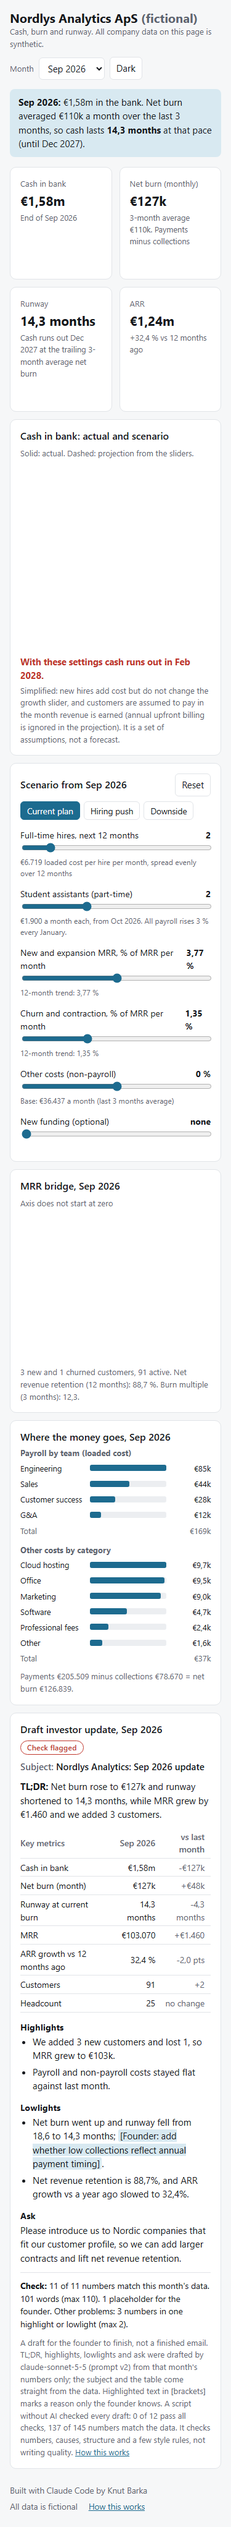
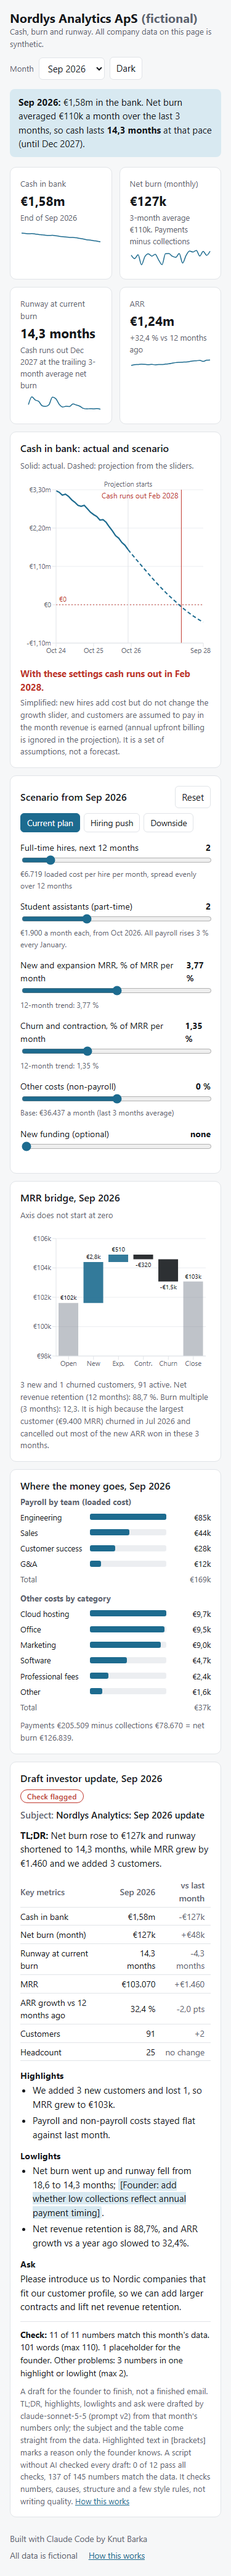
Review 6: explain guide with three new questions, full pipeline run, screenshots retaken

diff --git a/web/app/method/page.tsx b/web/app/method/page.tsx
@@ -58,9 +58,15 @@ export default function Method() {
       <p>
         The dashed line starts from {monthLabel(base.start_month)} with {eur(base.start_cash)} in the bank and projects
         24 months. Each month: MRR grows by the growth rate and shrinks by the churn rate; cash changes by MRR minus
-        payroll minus other costs plus any funding. Defaults are recent trends: growth {pct(base.default_growth_rate, 2)} and
-        churn {pct(base.default_churn_rate, 2)} of MRR per month (12-month averages), other costs {eur(base.monthly_opex)} a
-        month (3-month average), payroll {eur(base.monthly_payroll)} a month, and no new hires. A new hire costs{" "}
+        payroll minus other costs plus any funding. Payroll starts at {eur(base.monthly_payroll)} a month and rises{" "}
+        {pct(base.annual_salary_increase, 0)} every January (own assumption, for everyone including new hires). The page
+        opens on the Current plan preset: growth {pct(base.default_growth_rate, 2)} and churn{" "}
+        {pct(base.default_churn_rate, 2)} of MRR per month (12-month averages), other costs {eur(base.monthly_opex)} a
+        month (3-month average), 2 full-time hires and 2 student assistants. Hiring push has 6 full-time hires; Downside
+        has half the growth and 1,5 times the churn. A student assistant (part-time, about 15 hours a week) costs{" "}
+        {eur(base.student_assistant_cost)} a month including holiday pay and starts in the first projected month. New
+        hires add cost but do not change the growth rate, and customers are assumed to pay in the month revenue is
+        earned. A full-time hire costs{" "}
         {eur(base.cost_per_hire)} a month: the average loaded cost per team, weighted by an assumed hiring mix of 40 %
         engineering, 35 % sales, 15 % customer success and 10 % G&amp;A. This is a tool for asking &quot;what if&quot;, not a
         forecast. A test checks that the browser calculation equals an independent Python version to within €1 a month.
@@ -150,9 +156,9 @@ export default function Method() {
       <ul>
         <li>All data is synthetic, so the patterns are only as realistic as the assumptions behind them.</li>
         <li>Revenue equals MRR. No proration, VAT, tax, payables or receivables timing.</li>
-        <li>The projection keeps costs flat apart from the sliders and treats collections as equal to revenue.</li>
+        <li>The projection keeps other costs flat apart from the slider, treats collections as equal to revenue (annual upfront billing is ignored) and does not let new hires change the growth rate.</li>
         <li>Gross margin counts cloud hosting and customer success payroll as cost of revenue. Third-party software stays in operating costs because the data does not say which part serves customers.</li>
-        <li>The AI check verifies numbers and named causes only. A draft can pass and still be badly written or emphasise the wrong thing.</li>
+        <li>The AI check verifies numbers, named causes, structure and a few style rules. A draft could pass and still be badly written or emphasise the wrong thing, and every draft needs a founder to fill in the placeholders.</li>
       </ul>
     </main>
   );

diff --git a/scripts/check_updates.py b/scripts/check_updates.py
@@ -148,7 +148,7 @@ def structure_and_style(u, worse):
     banned = sorted({m.group(0).lower() for m in BANNED_RE.finditer(ai_text)})
     if banned:
         problems.append("banned words: " + ", ".join(banned))
-    if "—" in ai_text or "–" in ai_text:   # em dash or en dash
+    if "\u2014" in ai_text or "\u2013" in ai_text:   # em dash or en dash
         problems.append("dash")
     outside = PLACEHOLDER.sub("", ai_text)
     if "[" in outside or "]" in outside or LOOSE_PLACEHOLDER.search(outside):

diff --git a/docs/explain.md b/docs/explain.md
@@ -4,7 +4,7 @@ This is your guide to the project. Read it once from top to bottom. Everything i
 
 ## The one-paragraph version
 
-A Python script invents 24 months of data for a fictional SaaS company. DuckDB turns that data into metrics with SQL. The metrics are exported to one JSON file. A Next.js website shows that file as a dashboard. Sliders on the website project cash forward. Claude wrote one investor update per month from that month's numbers, and a separate script without AI checks the numbers in those updates.
+A Python script invents 24 months of data for a fictional SaaS company. DuckDB turns that data into metrics with SQL. The metrics are exported to one JSON file. A Next.js website shows that file as a dashboard. Sliders and three preset buttons on the website project cash forward. For each month there is a draft investor update: the subject and a key metrics table come straight from the data, and Claude drafted the short text parts (TL;DR, highlights, lowlights, ask) for a founder to finish. A separate script without AI checks those text parts.
 
 ```
 generate.py -> data/raw/*.csv -> reconcile.py (checks)
@@ -36,8 +36,8 @@ Where: `scripts/generate.py` (billing rules) and `scripts/reconcile.py` (the che
 - **Computed in:** `sql/03_monthly_summary.sql` (`net_burn`).
 - **Why cash and not profit:** a company dies when cash runs out, not when profit is negative. The card also shows the 3-month average.
 
-### Runway
-- **Shows:** how many months the cash lasts at today's pace, and the month it would run out.
+### Runway at current burn
+- **Shows:** how many months the cash lasts at today's pace, and the month it would run out. The label says "at current burn" because it assumes burn stays at the trailing 3-month average, unlike the scenario projection.
 - **Formula:** closing cash / average net burn of the last 3 months. Zero-cash month = this month + runway, rounded up.
 - **Computed in:** `sql/04_runway.sql`.
 - **Why 3 months:** one month is too noisy because of annual invoices. Twelve months would still be showing the cheaper period before the spring 2026 hiring push. Three is a middle ground and the dashboard says it is used.
@@ -48,16 +48,30 @@ Where: `scripts/generate.py` (billing rules) and `scripts/reconcile.py` (the che
 - **Computed in:** `sql/06_unit_metrics.sql`.
 - **Why:** the standard size measure for a subscription business. Year-on-year growth avoids monthly noise.
 
-The small lines under each KPI (sparklines) show the same number for every month up to the selected one.
+The small lines under each KPI (sparklines) show the same number for every month up to the selected one. Hovering over a line, or dragging a finger along it on a phone, shows the month and the exact value just above the line (for example "Jul 2026: €1.785.615", or "14,3 months" for runway). Where: `Sparkline` in `web/components/charts.tsx`.
+
+### Gross margin (used in the AI fact sheet and the docs, not a KPI card)
+- **Formula:** (revenue - cost of revenue) / revenue. Cost of revenue = cloud hosting + payroll of the customer success team.
+- **Computed in:** `sql/03_monthly_summary.sql`.
+- **Value:** 63,4 % in Sep 2026. The first version counted hosting only and showed about 91 %, which flattered the business. See question 7.
 
 ## The charts
 
 ### Cash curve (main chart)
-- **Shows:** actual cash for 24 months (solid line) and a 24-month projection (dashed line) that moves with the sliders. The red dashed line is €0. If cash falls below zero, a red label shows the month.
-- **Formula, each projected month:** MRR = last MRR x (1 + growth - churn). Payroll = today's payroll + hires started x cost per hire. Cash = last cash + MRR - payroll - other costs + funding.
-- **Computed in:** `web/lib/scenario.ts` (browser). Same logic in `scripts/check_scenario.py` (Python). Starting values from `sql/08_scenario_base.sql`.
+- **Shows:** actual cash for 24 months (solid line) and a 24-month projection (dashed line) that moves with the sliders. The red dashed line is €0. If cash falls below zero, a red vertical line marks the month.
+- **Line under the chart:** one sentence that reads the current projection: either "With these settings cash runs out in Mon YYYY" (in red) or "With these settings cash bottoms out at €X in Mon YYYY". Below it, one line on the two biggest simplifications: new hires add cost but do not change the growth slider, and customers are assumed to pay in the month revenue is earned (annual upfront billing is ignored in the projection).
+- **Formula, each projected month:**
+  - MRR = last MRR x (1 + growth - churn).
+  - Payroll = (today's payroll + full-time hires started x cost per hire + student assistants x €1.900) x salary factor. The salary factor is 1 until the first January, 1,03 in 2027 and 1,0609 in 2028: all payroll rises 3 % every January.
+  - Cash = last cash + MRR - payroll - other costs + funding.
+- **Sliders:** full-time hires (0 to 15, spread evenly over 12 months), student assistants (0 to 6, part-time, all start in the first projected month), growth, churn, other costs, new funding.
+- **Presets** (buttons above the sliders; clicking one sets the sliders, moving a slider afterwards is fine and clears the highlight):
+  - *Current plan* (on load; Reset returns here): 2 full-time hires, 2 student assistants, growth and churn at their 12-month trend, no change to other costs, no funding.
+  - *Hiring push*: as Current plan with 6 full-time hires.
+  - *Downside*: as Current plan with growth at half the trend and churn at 1,5 times the trend.
+- **Results from Sep 2026 (€1,58m in the bank):** Current plan runs out of cash in Feb 2028; Hiring push and Downside both run out in Nov 2027. The runway KPI (burn stays as it is) says Dec 2027.
+- **Computed in:** `web/lib/scenario.ts` (browser). Same logic in `scripts/check_scenario.py` (Python). Starting values, the student assistant cost and the 3 % raise come from `sql/08_scenario_base.sql`, so both versions read the same numbers.
 - **Why:** it answers "what if" questions live. It is labelled as assumptions, not a forecast.
-- **Note:** at default settings cash does not reach zero within 24 months (lowest point about €42k in Sep 2028), while the runway KPI says Dec 2027. Both are right: the KPI assumes burn stays as it is; the projection assumes MRR keeps growing at the recent trend. Be ready to explain that difference. It is a good talking point.
 
 ### MRR bridge (waterfall)
 - **Shows:** why MRR changed in the selected month: opening MRR, plus new, plus expansion, minus contraction, minus churn, equals closing MRR.
@@ -71,17 +85,24 @@ The small lines under each KPI (sparklines) show the same number for every month
 - **Why:** payroll is about 80 % of spending. This makes that obvious and shows which team drives it.
 
 ### Draft investor update
-- **Shows:** Claude's draft for the selected month (Oct 2025 to Sep 2026) and whether the number check passed.
-- **Computed in:** `scripts/write_updates.py` (draft) and `scripts/check_updates.py` (check).
+- **Shows:** a draft for the selected month (Oct 2025 to Sep 2026) in five parts, then the check result:
+  1. Subject: "Nordlys Analytics: Mon YYYY update". Not AI.
+  2. TL;DR: one sentence with the most important thing this month and what it means. AI.
+  3. Key metrics table: cash, net burn, runway at current burn, MRR, ARR growth, customers, headcount, each with the change vs last month. Not AI: from `sql/09_update_metrics.sql`.
+  4. Up to two highlights and two lowlights, one short sentence each. AI.
+  5. Ask: one concrete thing investors can help with. AI.
+- **Placeholders:** the data shows what happened, not why. Where a reason matters (why a customer left, what a fee was for, why someone was hired), the AI writes "[Founder: add reason]" instead of guessing. The dashboard highlights these. The drafts are for a founder to finish.
+- **Computed in:** `scripts/write_updates.py` (draft, prompt v2) and `scripts/check_updates.py` (check). Card: `web/components/UpdateCard.tsx`.
+- **History:** v1 was 120 to 180 words of prose. After reviewing two v1 drafts (Apr and Jul 2026) they were too dense (20 or more numbers in running text), had no ask, and wrote as the founder about causes the founder would know but the data does not. v1 is kept in `data/ai/updates_v1.csv`.
 
 ## Main design choices and why
 
 1. **All maths in SQL views, one per file.** One place the numbers come from. Anyone can open a `.sql` file and read the formula.
 2. **A static website.** No server and no database online. Cheap, fast and nothing to break. The trade-off: new data means rebuilding.
 3. **Sliders run in the browser in one small file.** The logic is readable top to bottom, and a test proves it matches an independent Python version to within €1 every month.
-4. **AI text generated once and stored.** Repeatable, cheap (about USD 0,07 for all 12 drafts) and reviewable. Visitors never trigger an API call.
-5. **The AI gets a prepared fact sheet, not raw data.** It can only use numbers we gave it, and a script can check them.
-6. **Honest check results.** 3 of 284 numbers were rounding errors by the model. They are shown, not hidden.
+4. **AI text generated once and stored.** Repeatable, cheap (about USD 0,07 for all 12 drafts, each time) and reviewable. Visitors never trigger an API call.
+5. **The AI gets a prepared fact sheet, not raw data.** It can only use numbers we gave it, and a script can check them. The numbers investors need most sit in a table built from SQL, so the AI text only has to carry the story.
+6. **Honest check results.** The v2 check was run once: 0 of 12 drafts pass every rule. The results are shown, not regenerated away.
 7. **Planted story.** The data has a hiring push, a big churn, a price increase, a strong expansion month and a one-off fee, so the dashboard and the updates have something to explain.
 
 ## Checks you can run
@@ -89,20 +110,22 @@ The small lines under each KPI (sparklines) show the same number for every month
 | Command | What it checks | Current result |
 |---|---|---|
 | `python scripts/reconcile.py` | Cash roll-forward, MRR movements against customer snapshots, payroll against headcount, opex, collections against billing | 8 of 8 pass |
-| `python scripts/check_scenario.py` then `cd web && npm test` | Python and TypeScript projections are equal within €1 | pass (2 cases) |
+| `python scripts/check_scenario.py` | Sanity checks on the projection (month 1 cash, hiring spread, 3 % raise every January, presets) | 8 of 8 pass |
+| `cd web && npm test` | Python and TypeScript projections are equal within €1, for each of the three presets and a stress case; preset buttons set the same values as Python | 5 of 5 pass |
 | `python scripts/write_updates.py` (first lines) | Look-ahead test: the input for each month uses no later data | pass |
-| `python scripts/check_updates.py` | Numbers and named causes in the AI drafts | 10 of 12 drafts pass, 281 of 284 numbers match |
+| `python scripts/check_updates.py` | Numbers, named causes, structure and style of the AI parts (v2) | 0 of 12 drafts pass, 137 of 145 numbers match |
+| `node scripts/screenshots.mjs` | A finger dragged along a sparkline at 375 px moves the tooltip; presets highlight and clear correctly | both pass |
 
-## 10 likely interview questions
+## 13 likely interview questions
 
 **1. Why trailing 3 months for burn?**
 Annual customers pay upfront, so one month's burn can be very high or even negative. Three months smooths that but still reacts fast. When we hired six people in spring 2026, the 3-month average showed it within one or two months. A 12-month average would still be showing last year's lower costs.
 
-**2. Why does the runway KPI say Dec 2027 but the chart says cash lasts beyond Sep 2028?**
-They answer different questions. The KPI says: if nothing changes, burn stays where it is. The chart assumes revenue keeps growing at the past year's pace. The truth is probably in between, and the sliders let you test how sensitive it is.
+**2. Why does the runway KPI say Dec 2027 but Current plan says Feb 2028?**
+They answer different questions. The KPI says: if nothing changes, burn stays at the trailing 3-month average. Current plan assumes revenue keeps growing at the past year's pace, and also adds 2 hires, 2 student assistants and a 3 % raise every January. Growth wins by about two months. Hiring push and Downside both run out in Nov 2027, one month before the KPI date. So the KPI is a reasonable middle, and the presets show the range.
 
 **3. How do you know the AI text is right?**
-I do not trust it by default. The model only gets a fact sheet built from the SQL views. Then a separate script, without AI, checks every number against that fact sheet and flags causes that the data does not support. 281 of 284 numbers matched. The three misses were rounding errors, and I left them visible. The check does not judge writing quality; I still read the drafts.
+I do not trust it by default. The model only gets a fact sheet built from the SQL views, and the key numbers sit in a table that does not come from the AI at all. Then a separate script, without AI, checks every number in the AI text against that fact sheet, flags causes the data does not support, and checks the format rules. In v2, 137 of 145 numbers matched. Four misses are real rounding errors (€128.684 written as €128k). Four are "100%", the threshold from the fact sheet, which the checker cannot match: that is a weakness of my checker. No draft passed every rule, mostly because the model put three or four numbers in one sentence where I asked for two. I left that visible. The check does not judge writing quality; the founder still reads and finishes each draft.
 
 **4. How do you know the AI did not see the future?**
 For each month I rebuild the database with every later month deleted, build the input again and check it is identical. If it is not, the script stops before calling the API. My previous project had a look-ahead bug, so this test is there on purpose.
@@ -117,7 +140,7 @@ The generator would be replaced by exports from the billing system, payroll and 
 Cost of revenue is cloud hosting plus the payroll of the customer success team, because those are the costs of serving the customers we already have. Sep 2026: 63,4 %. The first version counted hosting only and showed about 91 %, which flattered the business, so I changed it. Third-party software could also go in, but the data does not say which tools serve customers, so it stays in operating costs.
 
 **8. What is the burn multiple and why is it 12,3 in Sep 2026?**
-Net burn divided by net new ARR, over 3 months. It says how many euros we burned for each euro of new ARR. It is high because the largest customer left in July, so net new ARR over those 3 months was small. Lower is better. When ARR shrinks, the ratio is not meaningful, and the dashboard says so instead of showing a number.
+Net burn divided by net new ARR, over 3 months. It says how many euros we burned for each euro of new ARR. Lower is better. It is high because the largest customer (€9.400 MRR) churned in July and cancelled out most of the new ARR won in Jul to Sep. Aug (7,1) is high for the same reason. In Jul itself ARR shrank over the 3 months, so the ratio is not meaningful, and the dashboard says so instead of showing a number. I kept the 3-month method and added a note rather than switching to a longer window that would hide the event.
 
 **9. How do you know the numbers add up?**
 A reconciliation script checks the raw data before anything else runs: cash rolls forward every month, MRR movements add up to the customer-level snapshot, payroll equals the headcount table, and collections equal monthly payments plus annual invoices. All 8 checks pass. The browser projection is tested against a Python version.
@@ -125,10 +148,19 @@ A reconciliation script checks the raw data before anything else runs: cash roll
 **10. What did you do and what did Claude Code do?**
 Be honest and specific. Claude Code wrote the code from a detailed brief I wrote: the company, the planted story, the metric definitions, the checks and the rules (no invented sources, fictional data, look-ahead test, cost cap). My job was to review the output, the decisions log and the check results (only say this once you have done it). I can explain every formula because they are written down in `docs/metrics.md` and each lives in one SQL file.
 
+**11. Why does the projection never hit zero in Current plan, or does it?**
+It does: Current plan runs out of cash in Feb 2028. The first version of the dashboard opened on "no hires, no changes", and there cash never reached zero within 24 months (lowest point about €42k in Sep 2028), because MRR keeps growing at the past year's trend. Current plan is more realistic: it adds 2 full-time hires, 2 student assistants and a 3 % raise every January. Together those extra costs are enough to push the line below zero in Feb 2028, before revenue growth can catch up. The line under the chart says this in words, and it turns red when cash runs out.
+
+**12. Why are student assistants a separate slider?**
+Because they cost very differently. A student assistant works about 15 hours a week and costs about €1.900 a month including holiday pay, against about €6.700 for a full-time hire. If I counted them as hires, two students would look like €13.400 a month instead of €3.800. They also start straight away, while full-time hires are spread over 12 months. The calculation is in `docs/assumptions.md` and is my own assumption, not a published rate.
+
+**13. Why does the AI leave placeholders instead of writing the causes?**
+Because the data only shows what happened, not why. The data shows that the largest customer left in July, but not why it left. It shows €26.668 of professional fees in April, about ten times the usual level, but not what they were for. The first version of the prompt made the model write as the founder, and it filled those gaps with vague phrases like "understanding why that customer left". An investor would read that as the founder not knowing their own business. Now the model writes "[Founder: add reason]" and the founder fills it in. That makes it an honest draft: the AI does the numbers and the structure, the human adds what only the human knows.
+
 ## Where to look first in the code
 
 1. `sql/04_runway.sql`: the runway formula, 20 lines.
-2. `web/lib/scenario.ts`: the slider logic, with comments.
-3. `scripts/check_updates.py`: how the AI text is checked.
+2. `web/lib/scenario.ts`: the slider logic and the three presets, with comments.
+3. `scripts/write_updates.py` (the v2 prompt, near the top) and `scripts/check_updates.py` (how the AI text is checked).
 4. `scripts/generate.py`: the planted story is at the top.
 5. `docs/decisions.md`: every choice made without you.

diff --git a/docs/decisions.md b/docs/decisions.md
@@ -91,3 +91,6 @@ Every choice made during the unattended first build, as a list: what, why, and t
 65. **The update card is its own component (`web/components/UpdateCard.tsx`)** and shows placeholders highlighted, so a reader sees at once what the founder still has to fill in.
 66. **The burn multiple note appears for Aug and Sep 2026**, not only Sep, because both 3-month windows contain the Jul 2026 churn (Aug: 7,1; Sep: 12,3). The note text is written by hand, since it explains a known event in the data, and it is tied to those two months in `web/components/Dashboard.tsx`. Alternative: a rule that detects any large churn inside the window (more general, more code for one event).
 67. **"Runway" is renamed "Runway at current burn"** on the KPI card, the update table, the method page and in the docs, so it is clear that it assumes burn stays at the trailing 3-month average, unlike the scenario projection.
+68. **The final full data-flow run used `write_updates.py` without the key.** It ran the look-ahead test and rewrote the prompts but made no API calls, because the review asked for the 12 months to be regenerated once, and that had already happened in step 4. Alternative: a second paid run (would replace the drafts that were checked and reported).
+69. **Full-page screenshots first make the virtual screen as tall as the page**, then capture. Capturing beyond the screen made the charts redraw mid-capture and come out blank on the phone layout.
+70. **New screenshots:** `mobile-sparkline-tooltip.png` (finger on the cash sparkline at 375 px), `preset-hiring-push.png` (all three presets show the red "cash runs out" line; Hiring push was photographed) and `update-jul-2026.png` (the v2 update card).

diff --git a/docs/metrics.md b/docs/metrics.md
@@ -27,7 +27,7 @@ Every metric is defined once, here. Each one is calculated in exactly one SQL vi
 |---|---|---|---|---|
 | Net burn | payments - collections (funding excluded) | `03_monthly_summary.sql` | Cash is what runs out, not profit. Annual upfront billing makes cash and revenue differ a lot | Gross burn (payments only) or EBITDA-based burn |
 | Average net burn (3m) | average of net burn this month and the two before | `04_runway.sql` | Annual invoices make single months lumpy (some months even show negative burn). Three months smooths that but still reacts to recent changes like the hiring push | Single latest month (too noisy), 6 or 12 months (too slow to show the hiring push) |
-| Runway (months) | closing cash / average net burn (3m). Empty if average burn is zero or negative | `04_runway.sql` | Simple and widely understood: "how long at today's pace" | Projection-based runway that includes expected growth (that is what the scenario chart does) |
+| Runway at current burn (months) | closing cash / average net burn (3m). Empty if average burn is zero or negative | `04_runway.sql` | Simple and widely understood: "how long at today's pace" | Projection-based runway that includes expected growth (that is what the scenario chart does) |
 | Zero-cash month | this month + runway rounded up to whole months | `04_runway.sql` | Turns runway into a date people can plan around | Month in which projected cash goes below a minimum buffer, not zero |
 
 The dashboard KPI uses this trailing 3-month runway and says so. The scenario chart is a separate projection with its own assumptions (see below), so the two dates can differ.

diff --git a/CLAUDE.md b/CLAUDE.md
@@ -23,6 +23,7 @@ Portfolio project: runway dashboard for **Nordlys Analytics ApS (fictional)**. A
 4. `python scripts/check_scenario.py` and `cd web && npm test` must both pass (TypeScript scenario equals Python within €1 per month).
 5. `python scripts/write_updates.py` drafts investor updates (Claude API, cost cap USD 2,00), then `python scripts/check_updates.py`, then `python build_db.py` again to export them.
 6. `cd web && npm run build` produces the static site in `web/out/`.
+7. `node scripts/screenshots.mjs` retakes the screenshots in headless Edge and runs a touch check (sparkline tooltip at 375 px) and a preset check.
 
 All calculations live in SQL views. The website only reads exported JSON and never calls an API.
 
@@ -31,3 +32,4 @@ All calculations live in SQL views. The website only reads exported JSON and nev
 - Key lives in env var `PORTFOLIO_ANTHROPIC_KEY` (not `ANTHROPIC_API_KEY`). Pass it explicitly to `anthropic.Anthropic(api_key=...)`. Never print it, write it to a file or commit it.
 - Model: `claude-sonnet-5-5`. Text is generated once and stored in `data/ai/`.
 - Input for month m may only contain data up to and including m (look-ahead test in `write_updates.py`).
+- Prompt v2: the AI writes only TL;DR, highlights, lowlights and ask; subject and key metrics table come from SQL. Causes not in the data become "[Founder: add reason]" placeholders. Never regenerate drafts just to make checks pass. v1 is kept in `data/ai/updates_v1.csv`.
